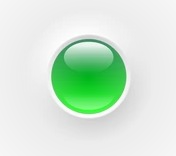
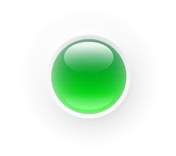
added image button for green led

Changed region(s): [[0.2841, 0.2308, 0.6534, 0.7436], [0.5966, 0.2821, 0.7102, 0.4359], [0.7102, 0.4615, 0.7386, 0.4872]]

diff --git a/labs/MauiUSBmeadow20231024/MauiUSBmeadow20231024/MainPage.xaml b/labs/MauiUSBmeadow20231024/MauiUSBmeadow20231024/MainPage.xaml
@@ -23,6 +23,23 @@
                             HorizontalOptions="Center"
                             Margin="10,0,0,0"/>
                 </HorizontalStackLayout>
+                <!-- Button Images -->
+                <HorizontalStackLayout Margin="0,10,0,0">
+                    <ImageButton x:Name="btnRedLED"
+                                 Source="led_off.png"
+                                 Clicked="btnRedLED_Clicked"/>
+                    <ImageButton x:Name="btnGreenLED"
+                                 Source="led_off.png"
+                                 Clicked="btnGreenLED_Clicked"/>
+                </HorizontalStackLayout>
+                <HorizontalStackLayout Margin="0,10,0,0">
+                    <Label Text="Red LED"
+                           WidthRequest="160"
+                           HorizontalTextAlignment="Center"/>
+                    <Label Text="Green LED"
+                           WidthRequest="170"
+                           HorizontalTextAlignment="Center"/>
+                </HorizontalStackLayout>
             </VerticalStackLayout>
             
             <!-- Solar Data -->

diff --git a/labs/MauiUSBmeadow20231024/MauiUSBmeadow20231024/MainPage.xaml.cs b/labs/MauiUSBmeadow20231024/MauiUSBmeadow20231024/MainPage.xaml.cs
@@ -14,6 +14,7 @@ public partial class MainPage : ContentPage
     private int currentPackNumber = 0;      // the current packet number
     private int packetCount = 0;            // the number of packets recieved
     private int rolloverCount = 0;          // the number of times the packet count has rolled over that the application sees
+    private StringBuilder loads = new StringBuilder("1100");          // the loads info to send to the meadow board
     private Solar solar = new Solar(220.0, 220.0, 3.3, 4095.0);
     SerialPort serialPort = new SerialPort();   // serial port for connecting to the meadow board
 
@@ -163,6 +164,11 @@ public partial class MainPage : ContentPage
         ecNumber.Text = errorChecking.NumberErrors.ToString();
     }
 
+    /// <summary>
+    /// Closes the open serial port
+    /// </summary>
+    /// <param name="sender"></param>
+    /// <param name="e"></param>
     private void btnOpenClose_Clicked(object sender, EventArgs e)
     {
         if (!bPortOpen)
@@ -180,12 +186,21 @@ public partial class MainPage : ContentPage
         return;
     }
 
+    /// <summary>
+    /// Refreshes the list of available serial ports.
+    /// </summary>
+    /// <param name="sender"></param>
+    /// <param name="e"></param>
     private void btnClear_Clicked(object sender, EventArgs e)
     {
         string[] ports = SerialPort.GetPortNames();
         pkrComPort.ItemsSource = ports;
     }
-
+    /// <summary>
+    /// Sends the text entered in the debugging entry box
+    /// </summary>
+    /// <param name="sender"></param>
+    /// <param name="e"></param>
     private void btnSend_Clicked(object sender, EventArgs e)
     {
         try
@@ -198,6 +213,29 @@ public partial class MainPage : ContentPage
         {
             DisplayAlert("Alert!", ex.ToString(), "OK");
         }
+    }
+    /// <summary>
+    /// Toggles the green LED on D06
+    /// </summary>
+    /// <param name="sender"></param>
+    /// <param name="e"></param>
+    private void btnGreenLED_Clicked(object sender, EventArgs e)
+    {
+        Packet packet = new Packet();
+        loads[0] = (loads[0] == '1') ? '0' : '1';
+
+        packet.Send(loads.ToString(), serialPort);
+        btnGreenLED.Source = loads[0] == '0' ? "green_led.png" : "led_off.png";
+        return;
+    }
+    /// <summary>
+    /// Toggles the red LED on D07
+    /// </summary>
+    /// <param name="sender"></param>
+    /// <param name="e"></param>
+    private void btnRedLED_Clicked(object sender, EventArgs e)
+    {
+        return;
     }
 }
 
